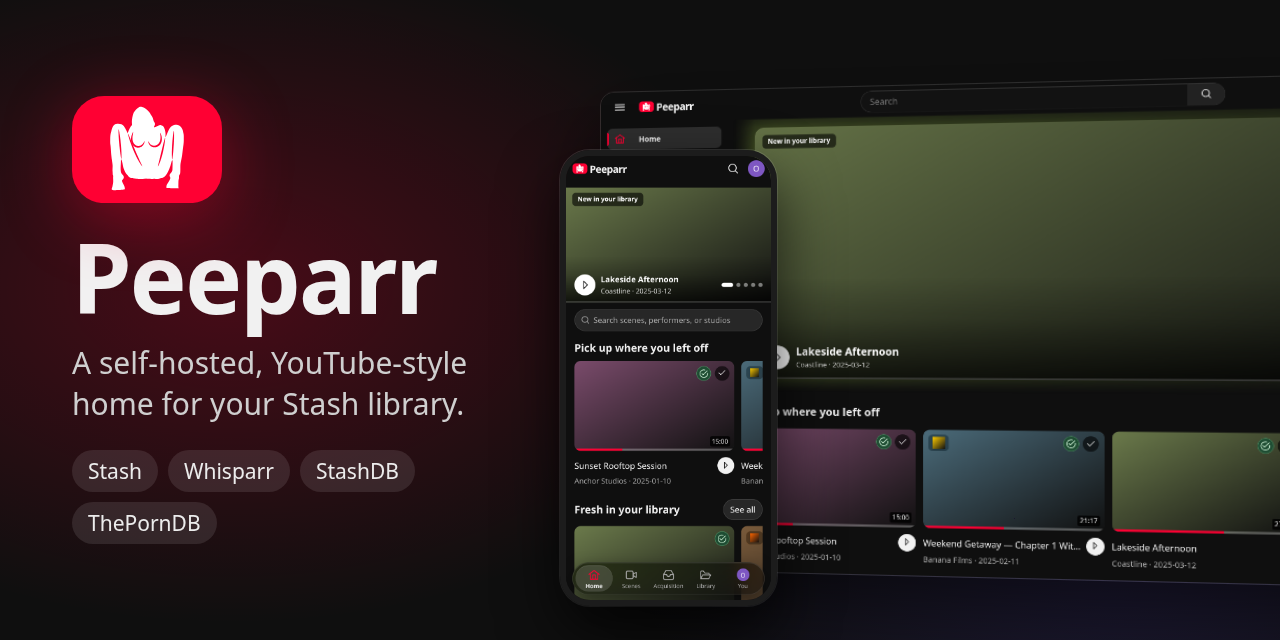
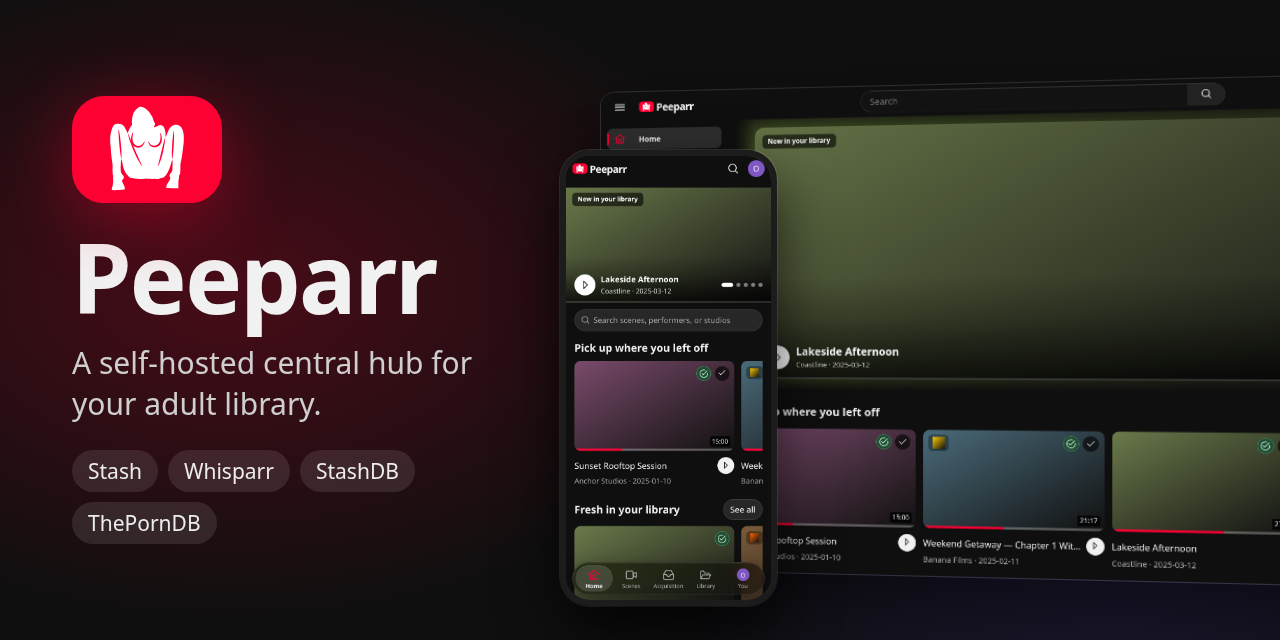
Describe Peeparr as a self-hosted central hub for your adult library
README intro and feature wording, and the social preview, no longer call
it YouTube-style.

Changed region(s): [[0.0312, 0.5312, 0.375, 0.6562]]

diff --git a/README.md b/README.md
@@ -5,7 +5,7 @@
 <h1 align="center">Peeparr</h1>
 
 <p align="center">
-Peeparr is a self-hosted, YouTube-style home for your Stash library. Browse and watch what you already have, discover new scenes from StashDB, FansDB or ThePornDB, request them through Whisparr, and follow each one until it's in your library and ready to play.
+Peeparr is a self-hosted central hub for your adult library. Browse and watch everything in your Stash library, discover new scenes from StashDB, FansDB or ThePornDB, request them through Whisparr, and follow each one until it's in your library and ready to play.
 </p>
 
 <p align="center">
@@ -52,7 +52,7 @@ Every scene shows where it is in that journey: requested, downloading, importing
 - **A banner of the newest scenes in your library.** Each one plays its preview and moves on when the preview has played through. You can swipe between scenes, and a bar along the bottom shows when the next one is coming. On wide screens a soft glow of the preview spreads out behind the banner.
 - **Pick up where you left off**, **Fresh in your library** and **Popular right now** rows. For ThePornDB, Popular is the site's own popular list, read with your saved website login and cached.
 - **Search everything from one box:** performers, sites and scenes, a few of each with *Show more*.
-- **Smooth page changes.** As with YouTube, a thin red bar runs along the top while the next page loads. The page then appears complete, rising gently into place, rather than filling in piece by piece.
+- **Smooth page changes.** A thin red bar runs along the top while the next page loads. The page then appears complete, rising gently into place, rather than filling in piece by piece.
 
 ### Discover and request
 
@@ -69,7 +69,7 @@ Every scene shows where it is in that journey: requested, downloading, importing
 
 <p align="center"><img src="docs/screenshots/scene.png" alt="A scene page: the player, title, status, site and date, performers, actions, description, and Up next" width="100%" /></p>
 
-- **YouTube-style scene pages.** Under the title is one tidy line: the status, the site, the date and the length. Below it are the performers, then the description and tags. Up next sits alongside.
+- **Scene pages.** Under the title is one tidy line: the status, the site, the date and the length. Below it are the performers, then the description and tags. Up next sits alongside.
 - **Picks up where you stopped**, and keeps your place across devices.
 - **Up next** follows a series in order. It then offers related library scenes, including ones with the same performers, even on scenes you don't have yet.
 - **Miniplayer.** Leave a playing scene and it carries on at the bottom of the screen. Tap it to go back to the scene, right where you were. On a phone, swipe the video down to send it there.
